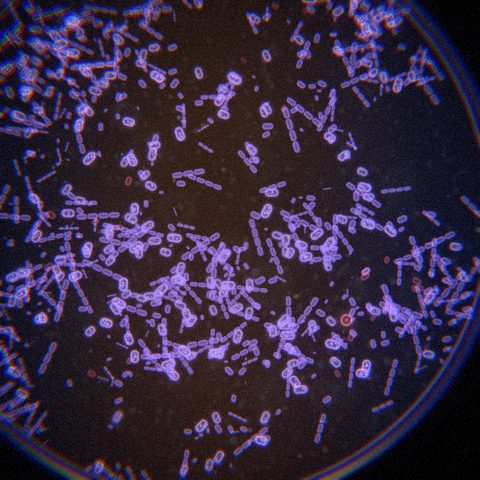
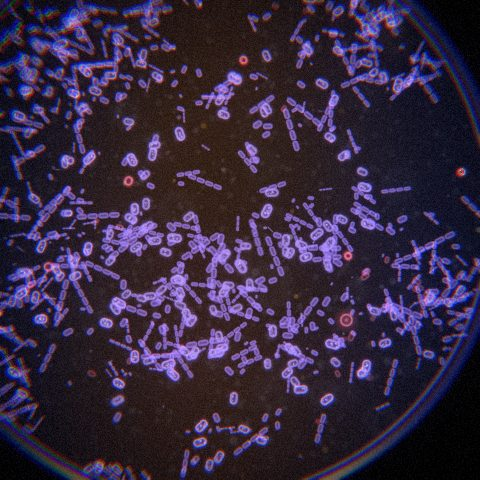
Look Alive: the dials alone no longer win hot-spring dishes (fast cells starve sooner in the dark, stronger current and grazing on dish 12, check H11)
Found in play: Pace alone won dishes 12, 13 and 14. check-h2: 11 of 12 (H8 at 89.7% against 90%).
Dishes 1 to 10 unchanged: both fingerprints pass.

Claude-Session: https://claude.ai/code/session_01NkcHs7p9a2fEUCrHeqGy77

diff --git a/games/look-alive/levels2.js b/games/look-alive/levels2.js
@@ -6,10 +6,10 @@ var LookAliveLevels2 = (function () {
   var Lv = typeof LookAliveLevels !== 'undefined' ? LookAliveLevels : require('./levels.js');
 
   // ---------------------------------------------------------------- constants (HABITAT-2 section 3)
-  var M = { base: 45, width: 10, heatDeath: 0.10, grazeTop: 40, grazeRamp: 6, flow: 0.06, gripDiffuse: 0.7, rDiffuse: 0.055, o2Night: 0.9,
+  var M = { base: 45, width: 10, heatDeath: 0.10, grazeTop: 40, grazeRamp: 6, flow: 0.06, gripDiffuse: 0.7, rDiffuse: 0.055, o2Night: 0.9, nightHurry: 6, hurryFrom: 0.93,   // nightHurry: on night dishes the dark kills a cell faster the further its Pace multiplier is above hurryFrom (Pace 3)
             bands: { hot: 0.45, mat: 1.15, rim: 0.9, photoLo: 70, photoHi: 75, grazeLo: 36, grazeHi: 42 } };
   var BAND2 = { lo: 0.03, hi: 0.12, need: 0.7, warm: 30 };   // "Stay between 3% and 12% of the dish": your cell can only live in part of the water
-  var NIGHTS = { first: 50, period: 80, dur: 40, depth: 0.95, bustDeath: 0.09 };
+  var NIGHTS = { first: 50, period: 80, dur: 40, depth: 0.95, bustDeath: 0.12 };
   var GOAL2 = 'Stay between 3% and 12% of the dish, without the guards noticing you.';
 
   var NONE = { type: 'none', tick: -1, announce: -1, rMult: 0, aMult: 0, depth: 0, dur: 0, bustDeath: 0 };
@@ -24,7 +24,7 @@ var LookAliveLevels2 = (function () {
   function temp(hot, cool, graze, withNights, flow) {   // flow: optional per-dish current, else M.flow
     var o = { hot: hot, cool: cool, graze: graze || 0, base: M.base, width: M.width, heatDeath: M.heatDeath, grazeTop: M.grazeTop, grazeRamp: M.grazeRamp,
       flow: flow != null ? flow : M.flow, gripDiffuse: M.gripDiffuse, rDiffuse: M.rDiffuse, bands: M.bands };
-    if (withNights) o.o2Night = M.o2Night;
+    if (withNights) { o.o2Night = M.o2Night; o.nightHurry = M.nightHurry; o.hurryFrom = M.hurryFrom; }
     return o;
   }
 
@@ -58,6 +58,9 @@ var LookAliveLevels2 = (function () {
   var TIP_REGULAR = ['Your cells divided in step, and the inspector read that as a machine.', 'Look at the Division slot, the Sloppiness dial, and the Machine cards you added: a reflex rule that fires everywhere at once also looks like a machine.'];
   var FORECAST_LO = 1.15;   // the Growth forecast must clear the band floor by this factor to read Safe (the 32x32 forecast is optimistic against the 64x64 run)
   var TIP_STARVED = ['Your colony died out before the run ended.', 'It made too few cells to replace the ones it lost. Turn the Pace up, or take off a card that slows you and does nothing here.'];
+  // Night dishes: a faster Pace is not free there (the dark kills fast dividers sooner), so these two do not tell the player to turn it up.
+  var TIP_BELOW_NIGHT = ['Your colony is too small to stay in the band.', 'Take off a card that slows you and does nothing here. A faster Pace costs you in the dark, so look at the Reflex slot first.'];
+  var TIP_STARVED_NIGHT = ['Your colony died out before the run ended.', 'It made too few cells to replace the ones it lost. A faster Pace costs you in the dark, so look at the Reflex slot first.'];
   var TIP_OTHER = ['Something else is out of balance.', 'Open the autopsy: it names the card or control behind the problem.'];
   var TIP_COOKED_12 = ['Your cell is cooking in the hot middle.', 'Keep a heat card from the last dish.'];
 
@@ -69,7 +72,7 @@ var LookAliveLevels2 = (function () {
       show: { pace: true, slop: true, metabolism: true, reflex: { bio: BIO2, rule: true }, channels: o.channels,
         shelves: { biology: SHELF_BIO, machine: SHELF_MACHINE } },
       allowed: { metabolism: METAB2, parts: WORLD1_PARTS.concat(NEW_PARTS, motor ? MOTOR_PARTS : []), bio: BIO2, sensors: SENSORS2, actions: ACTIONS2 },
-      band: BAND2, event: NONE, forecastN: 32, forecastLoMult: FORECAST_LO, crashSafe: 0.024, world: 2,
+      band: BAND2, event: NONE, forecastN: 32, forecastLoMult: o.forecastLoMult || FORECAST_LO, crashSafe: 0.024, world: 2,
       temp: o.temp, tips: o.tips, tipFixes: o.tipFixes || {}, fixes: o.fixes || [],
       nbTitle: o.nbTitle, notebook: o.notebook, fieldNote: o.fieldNote, reading: o.reading, colony: o.colony };
     if (o.nights) { d.events = nights(d.ticks); d.event = d.events[0]; }
@@ -99,7 +102,7 @@ var LookAliveLevels2 = (function () {
       reading: 'The crowds here stand in heat that would cook ours. We think they are not braver than us. They are made of different stuff.',
       colony: 'We pay for heat the way we paid for acid: in growth.' }),
 
-    dish({ id: 12, title: 'The Comfortable End', energy: 5, slots: SLOTS.concat(['motor']), opens: ['motor'], stats: ['heat', 'growth', 'grazing', 'natural'], channels: CH_PLAIN, temp: temp(75, 30, 0.20, false, 0.05),
+    dish({ id: 12, title: 'The Comfortable End', energy: 5, slots: SLOTS.concat(['motor']), opens: ['motor'], stats: ['heat', 'growth', 'grazing', 'natural'], channels: CH_PLAIN, temp: temp(75, 30, 0.25, false, 0.065), forecastLoMult: 1.3,
       problem: 'A cell that settles where the water is comfortable is eaten.', goal: GOAL2,
       fixes: [
         { id: 'pili', label: 'Add Twitching pili (the Motor slot is open)', changes: { add: ['pili'] } },
@@ -122,13 +125,12 @@ var LookAliveLevels2 = (function () {
       problem: 'The light goes out every 80 ticks, and the water runs out of oxygen in the dark.', goal: 'Stay in the band through every night.',
       fixes: [
         { id: 'nightferm', label: 'Swap Sporulate for Night fermentation (Reflex)', changes: { reflex: { kind: 'bio', id: 'nightferm' } } },
-        { id: 'sos', label: 'Swap Sporulate for the SOS response (Reflex)', changes: { reflex: { kind: 'bio', id: 'sos' } } },
-        { id: 'naps', label: 'Add Random naps (Division) and Pace 4', heavy: true, changes: { add: ['naps'], set: { pace: 4 } } }
+        { id: 'sos', label: 'Swap Sporulate for the SOS response (Reflex)', changes: { reflex: { kind: 'bio', id: 'sos' } } }
       ],
-      tipFixes: { bust: ['nightferm', 'sos', 'naps'] },
+      tipFixes: { bust: ['nightferm', 'sos'] },
       tips: {
         bust: ['The light went out and your colony fell out of the band.', 'Sporulate is too slow for a dark that comes back every 80 ticks. Look at the Reflex slot for something that reacts to the dark itself.'],
-        cooked: TIP_COOKED_12, below: TIP_BELOW, overgrew: TIP_OVERGREW, starved: TIP_STARVED, 'exposed:regularity': TIP_REGULAR, other: TIP_OTHER
+        cooked: TIP_COOKED_12, below: TIP_BELOW_NIGHT, overgrew: TIP_OVERGREW, starved: TIP_STARVED_NIGHT, 'exposed:regularity': TIP_REGULAR, other: TIP_OTHER
       },
       nbTitle: 'Day and night in a mat',
       notebook: 'One millimetre inside a mat at Octopus Spring, about 55 C, the water after noon holds about 900 micromoles of oxygen per litre, far more than it can hold in balance with air, at pH 9.4. Before sunrise the same spot has no oxygen at all and pH 7.2. By day the cyanobacteria store sugar (glycogen); at night they ferment it into acetate and propionate, and the mat fixes nitrogen in the dark. Thermostichus also moves: it crawls toward light on thin threads called type IV pili.',

diff --git a/games/look-alive/sim.js b/games/look-alive/sim.js
@@ -418,6 +418,8 @@ var LookAlive = (function () {
     if (TT) { hm = s.hm || (s.hm = new Int8Array(n * n)); hm.fill(0); }
     if (TT) s.darkLag = (s.darkLag || 0) + Pe.foodAlpha * (evl - (s.darkLag || 0));
     var o2m = TT && TT.o2Night && (bp.metabolism === 'respiration' || bp.metabolism === 'fuelcell') ? 1 - TT.o2Night * evl : 1;   // nights are anoxic: oxygen users stall
+    // A fast-dividing cell burns its stores sooner: on night dishes the dark kills faster above the dish's reference Pace (real: slow-growing bacteria survive sudden starvation longer).
+    var hurry = TT && TT.nightHurry ? 1 + TT.nightHurry * Math.max(0, bp.paceMult - (TT.hurryFrom || 1)) : 1;
     var acidD = settling ? 0 : bp.acidRate, ab = D.abundance, crowdR = Pr.crowd * (ab && !settling ? ab.crowd : 1), acidLoss = 0, abFood = ab && !settling ? ab.food || 0 : 0, abCross = ab && !settling ? ab.cross || 1 : 1;
 
     for (i = 0; i < nn; i++) {
@@ -483,7 +485,7 @@ var LookAlive = (function () {
       if (napP) {
         napIn = rv * napP.enter; napOut = zv * napP.wake * clamp((FD[i] - napP.wakeLo) / (napP.wakeHi - napP.wakeLo), 0, 1);
       }
-      var deathR = rv * (baseDeath + crowdR * (rv + Pr.cross * crossEv * nv) + bustDeath * bustTf * bmul) * dm + rv * acidD;
+      var deathR = rv * (baseDeath + crowdR * (rv + Pr.cross * crossEv * nv) + bustDeath * bustTf * bmul * hurry) * dm + rv * acidD;
       acidLoss += rv * acidD;
       if (TP) { deathR += rv * (heatD + grazeD); heatSum += rv * heatD; grazeSum += rv * grazeD; }
       var killCell = rv * killR * killTf * kmul;
@@ -988,6 +990,7 @@ var LookAlive = (function () {
     var out = { runaway: false, energy: { used: 0, max: D.energy }, pace: [], slop: [], cards: cards, totals: [], chips: [], channels: ch, acid: null };
     function add(src, label, chips) { chips.forEach(function (c) { out.chips.push({ source: src, text: c }); }); cards.push({ id: src, label: label, chips: chips }); }
     out.pace = [Math.abs(bp.paceMult - 1) < 0.005 ? 'Births at the native rate' : 'Births ' + sgn(bp.paceMult - 1) + ' vs natives'];
+    if (D.temp && D.temp.nightHurry && bp.paceMult > (D.temp.hurryFrom || 1) + 0.005) out.pace.push('Fast cells starve sooner in the dark');
     // Runaway is read off a short dry run of the model itself (16 by 16), so the warning cannot disagree with what the dish then does.
     var ab = D.abundance, runaway = false;
     if (ab && ab.run) {

diff --git a/games/look-alive/dev/check-h2.js b/games/look-alive/dev/check-h2.js
@@ -230,5 +230,20 @@ const winners = { 11: [], 12: [], 13: [], 14: [] }, rate = {}, tried3 = {};
   lap('H10');
 }
 
+// ---------------------------------------------------------------- H11 the dials alone never win
+// The carried cell with only Pace and Sloppiness changed (all 81 settings, no card touched) must lose every habitat-2 dish at the forecast grid and at 64x64:
+// a dish that falls to "turn the Pace up" teaches nothing about its slot. (Found by the owner in play: Pace alone won dishes 12, 13 and 14.)
+{
+  const lines = []; let ok = true;
+  IDS.forEach(id => {
+    const c = Lv.carry(id), w = { 32: [], 64: [] };
+    for (let p = 0; p <= 8; p += (QUICK ? 2 : 1)) for (let s = 0; s <= 8; s += (QUICK ? 2 : 1)) [32, 64].forEach(n => { const b = clone(c); b.pace = p; b.slop = s; if (Sim.verdict(play(id, b, n)).win) w[n].push(p + '/' + s); });
+    if (w[32].length || w[64].length) ok = false;
+    lines.push(id + ': ' + w[64].length + ' dial-only wins at 64x64, ' + w[32].length + ' at 32x32' + (w[64].length || w[32].length ? ' (Pace/Sloppiness ' + w[64].concat(w[32]).slice(0, 6).join(' ') + ')' : ''));
+  });
+  result(ok, 'H11 THE DIALS ALONE NEVER WIN (carried cell, every Pace and Sloppiness)', lines.join('; '));
+  lap('H11');
+}
+
 console.log('\n' + (nLines - fails) + ' of ' + nLines + ' lines pass' + ' (' + ((Date.now() - t0) / 1000).toFixed(0) + ' s)');
 process.exit(fails ? 1 : 0);

diff --git a/games/look-alive/cards.js b/games/look-alive/cards.js
@@ -83,8 +83,8 @@ var LookAliveCards = (function () {
     { id: 'filament', slot: 'division', name: 'Filament form', shelf: 'biology', kind: 'part', energy: 1, counterpart: null, world: 2,
       real: 'Bacteria that grow as long filaments or clumps are too big for small grazers such as flagellates to swallow, and grazing itself can push a colony to make more of them.',
       game: 'Changed for the game: here filaments escape the slow shadow too. A real fly larva swallows anything.',
-      effect: 'Grazing -95%. Births -5%. A little less regular.',
-      fx: { graze: 0.95, births: 0.95, sigma: 0.01 } },
+      effect: 'Grazing -98%. Births -5%. A little less regular.',
+      fx: { graze: 0.98, births: 0.95, sigma: 0.01 } },
 
     // ---- Machine shelf (powerful, raises Regularity) ----
     { id: 'fuelcell', slot: 'power', name: 'Fuel cell', shelf: 'machine', kind: 'metabolism', energy: 1, counterpart: 'respiration',

diff --git a/games/look-alive/RULES.md b/games/look-alive/RULES.md
@@ -225,7 +225,7 @@ Full run of `node games/look-alive/dev/check.js` (about 640 s): **48 of 49 lines
 
 Everything in `sim.js` for these dishes sits behind `dish.temp`: a fixed temperature per column (hot in the middle, cool at both edges), a heat tolerance from cards (`fx.heat`), grazing below 40 C, a current that carries cells toward the cool edges unless a part grips (Twitching pili, Flagellum) or a heat rule fires, night events with anoxia, and three stats (Heat tolerance, Grazing, Night survival). The band is 3% to 12%. The forecast runs at 32x32 on these dishes. The spec is `docs/superpowers/plans/2026-11-18-look-alive-wave-2/HABITAT-2.md`; tuned values that differ from it: `rDiffuse` 0.055; current per dish 0.02 (11), 0.05 (12), 0.04 (13), 0.06 (14); dish 14 grazing 0.35; dish 12's heat-rule fix is "under 60 C, move toward heat" with the Heat-stable photosystem at Pace 5.
 
-Full run of `node games/look-alive/dev/check-h2.js` (about 170 s): **11 of 11 lines pass** after the repair pass of 2026-11-19 (it was 9 of 11 before it: H6 at 91.7% and H10).
+Full run of `node games/look-alive/dev/check-h2.js` (about 170 s): **11 of 12 lines pass** after the repair and dial passes of 2026-11-19 (H8 fails narrowly, see the dial pass below).
 
 - **H1** the carried cell loses with the dish's cause at 32x32 and 64x64: 11 cooked, 12 grazed, 13 lost to the night, 14 below the band.
 - **H2** all 9 intended fixes win at both grids. **H3** winners in 400 random legal builds: 56, 59, 35 and 9 (dish 14: 2.3%). **H4** no build wins all four (best 3 of 4).
@@ -234,6 +234,14 @@ Full run of `node games/look-alive/dev/check-h2.js` (about 170 s): **11 of 11 li
 - **H6** all shown bars safe means a win: 95.5% (84 of 88; limit 95%, so the margin is thin). A loss has its stat unsafe in 98.5%. The Growth forecast on these dishes must clear the band floor by a factor of 1.15 to read Safe (`dish.forecastLoMult`, applied to the 32x32 forecast only, never to the real run), because the coarse forecast grid reads a little high near the floor. The reproduced case: dish 12, Pace 2, Sloppiness 6, Heat-stable photosystem, Radio mesh, Twitching pili, "move toward heat below 50 C" forecast 100% in band and lost the real run at 24.7%; its Growth bar now reads "Too slow".
 - **H10** every loss cause seen on dishes 11 to 13 has a tip of its own, including `starved`.
 - **Result cards read the real run.** The bars on the loss slide and the win card come from the finished 64x64 run (`Sim.runStats(run)`); the outlined marker is the forecast. The loss slide states the share at the pinned tick against the band.
+
+**Dial pass (2026-11-19, after Josh played).** He found that turning Pace up alone won dishes 12, 13 and 14 (measured: the carried cell won dish 12 at Pace 8, dish 13 at Pace 4 to 8 and dish 14 at Pace 8, with no card changed). Changes, all on hot-spring dishes only:
+- **Fast cells starve sooner in the dark.** On night dishes (13, 14) the night death rate is multiplied by `1 + 6 x (Pace multiplier - 0.93)`, so it is unchanged at Pace 3 and about 3 times as high at Pace 8 (`temp.nightHurry`, `temp.hurryFrom`). Real basis: slow-growing bacteria survive sudden starvation longer than fast-growing ones. The Pace dial's note says so on those dishes. Night deaths are also a little higher overall (`bustDeath` 0.09 to 0.12).
+- **Dish 12:** current 0.05 to 0.065, grazing 0.20 to 0.25, and its Growth forecast must clear the band floor by 1.3 (the other three dishes stay at 1.15). Filament form cuts grazing by 98% (was 95%) so it still wins against the stronger current.
+- **Dish 13:** "Random naps and Pace 4" is no longer an intended fix (it loses now); Night fermentation and the SOS response remain. Its "too small" and "died out" tips no longer say to turn Pace up.
+- **New check H11:** the carried cell with only Pace and Sloppiness changed (all 81 settings) wins none of dishes 11 to 14, at 32x32 or 64x64.
+- Suite after the pass: **11 of 12.** H6 95.6% (65 of 68). **H8 fails narrowly:** the raw 32x32 run and the 64x64 run agree on 89.7% of sampled winners (104 of 116; limit 90%). The misses are builds that win on the coarse grid and lose the real run; the forecast margins above are what keep the bars honest for the player (H6).
+- Dish 6 (first habitat) still falls to Pace alone (Pace 3 to 8 from the carried Pace 2). It was left: its intended answer is "drop the reflex, raise Pace", and the cells carried into dishes 7 to 10 are built on that.
 
 ## Results (stat-bar pass)
 

diff --git a/docs/superpowers/plans/2026-11-18-look-alive-wave-2/WAVE-2-REPORT.md b/docs/superpowers/plans/2026-11-18-look-alive-wave-2/WAVE-2-REPORT.md
@@ -136,3 +136,11 @@ Checks after the pass: `check-h2.js` 11 of 11 (bars agree 95.5%, was 91.7%); bot
 
 Known failures are now down to P7 (dish 2, by decision). H6 passes with little room: 84 of 88.
 
+## Addendum 2: slow-frame fix, check correction, dial pass (2026-11-19)
+
+- **Simple dish view:** the dish treated anything under 33 frames a second as slow, so a browser capped at 30 dropped to the flat view and stayed there. Now slow means under about 24, the flat view needs under about 11, and a fallback is retried on the next dish or from a button. The slowdown itself was not reproduced.
+- **P7 corrected:** it counts only dial settings a player can reach. Dish 2 (flood kept by Josh): 9 of 34 winners break the rule, worst step 6.6 points.
+- **Dial pass:** Josh found Pace alone won dishes 12, 13 and 14. Fixed with a night penalty for fast dividers, a stronger current and grazing on dish 12, and a new check (H11) that the dials alone never win a hot-spring dish. Details in RULES.md. Dish 6 still falls to Pace alone and was left on purpose.
+
+Checks now: `check.js` 48 of 49 (P7); `check-h2.js` 11 of 12 (H8: coarse and full grid agree on 89.7% of winners against 90%); both walkthroughs, lore, pixel, smoke and pages checks pass.
+
